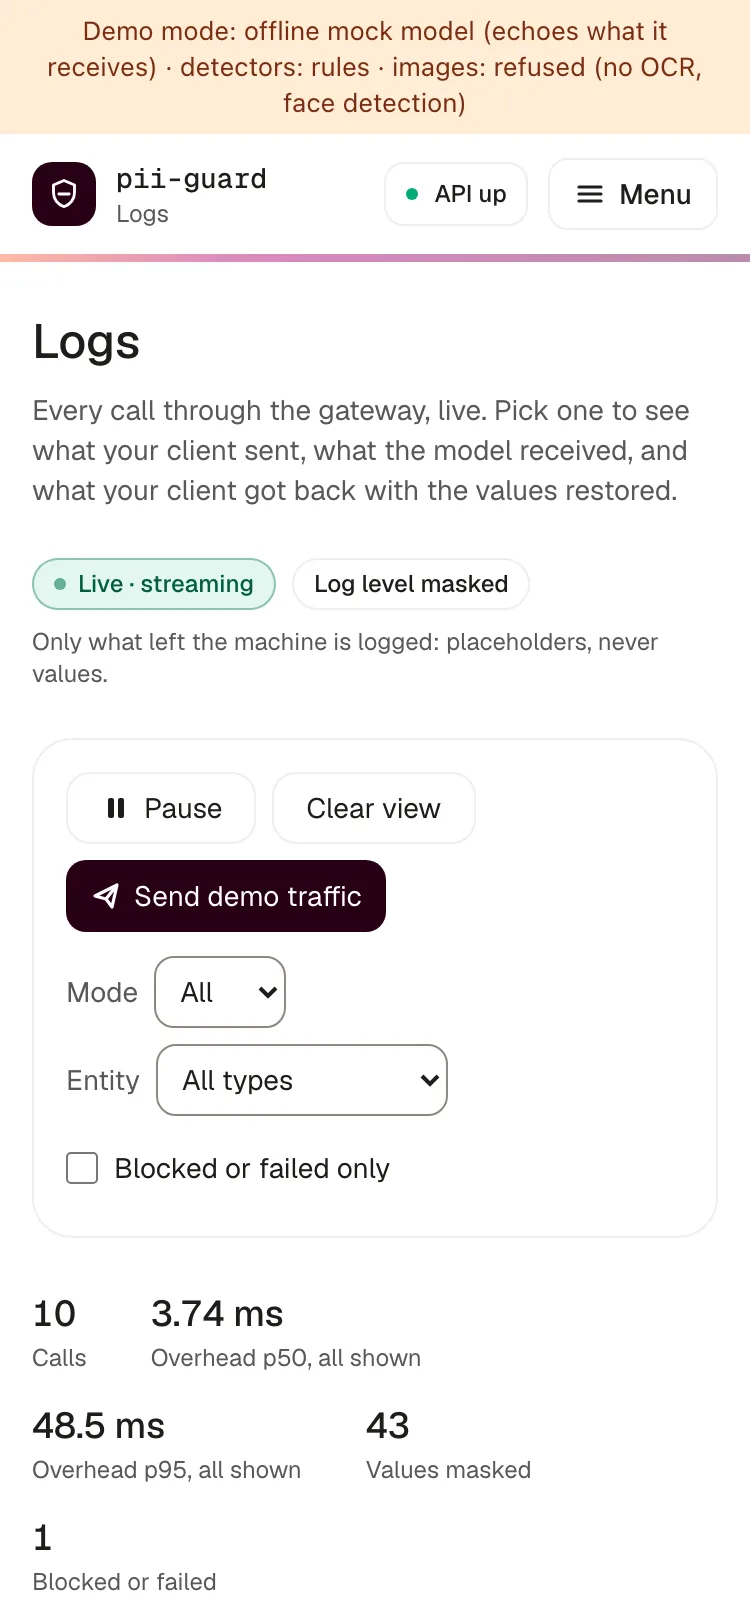
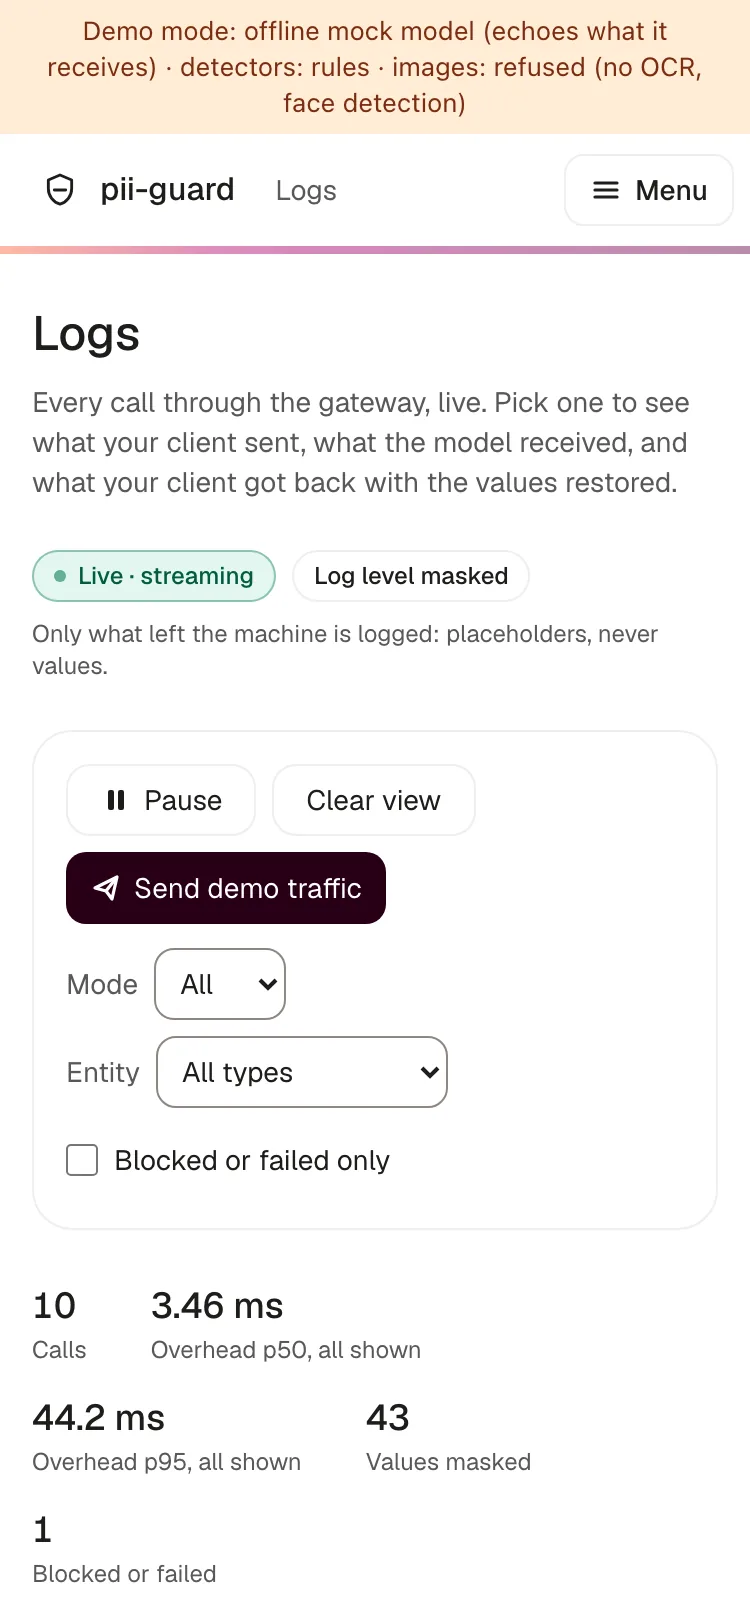
feat(ui): compact sidebar brand row, connection status in the footer (LAB-1325)
- Brand row: one 36px line in the nav gutter, a 20px shield glyph and
  pii-guard in Geist 16/500; the tagline moves to the page title.
- The API-up pill is gone: the footer shows a 6px dot and the version, with
  mode and detectors in the tooltip. Demo mode is labelled in orange; a down
  API (demo engine not chosen) is red, and so is the notice above the content.
- Engine select stays in the footer; the Images hint now points there.
- README screenshots re-captured.

diff --git a/ui/src/components/Sidebar.tsx b/ui/src/components/Sidebar.tsx
@@ -13,6 +13,8 @@ interface Props {
   onRecheck: () => void;
   theme: ThemePref;
   onTheme: (t: ThemePref) => void;
+  /** What the connected server runs, for the status tooltip ("fast mode · rules+ner"). */
+  statusDetail?: string | null;
 }
 
 /**
@@ -20,7 +22,7 @@ interface Props {
  * Sections are plain hash links, so they open in a new tab, can be copied, and keep working
  * with the back button.
  */
-export function Sidebar({ route, onSection, engineState, engine, onPreference, onRecheck, theme, onTheme }: Props) {
+export function Sidebar({ route, onSection, engineState, engine, onPreference, onRecheck, theme, onTheme, statusDetail }: Props) {
   const [open, setOpen] = useState(false);
   const menuId = useId();
   const menuButton = useRef<HTMLButtonElement>(null);
@@ -48,17 +50,14 @@ export function Sidebar({ route, onSection, engineState, engine, onPreference, o
         <a href="#main" className="sr-only focus:not-sr-only focus:absolute focus:left-4 focus:top-3 focus:z-40 focus:rounded focus:bg-surface focus:px-3 focus:py-1">
           Skip to content
         </a>
-        <div className="flex items-center gap-2.5 px-4 py-3 lg:flex-wrap lg:px-5 lg:pt-4 lg:pb-3">
-          <Logo />
-          <div className="min-w-0 leading-tight lg:grow lg:basis-0">
-            <p className="font-mono text-sm font-medium text-ink">pii-guard</p>
-            <p className="truncate text-xs text-muted lg:whitespace-normal">
-              <span className="lg:hidden">{current.label}</span>
-              <span className="hidden lg:inline">privacy firewall for AI agents</span>
-            </p>
-          </div>
+        {/* The brand row shares the nav items' gutter (px-2 + px-3), so the mark sits over their icons. */}
+        <div className="flex items-center gap-2 px-2 py-2.5 lg:pt-3 lg:pb-2">
+          <a href="#overview" className="flex h-9 min-w-0 items-center gap-2.5 rounded-sm px-3 text-ink">
+            <Logo />
+            <span className="text-base font-medium">pii-guard</span>
+          </a>
+          <span className="truncate text-sm text-muted lg:hidden">{current.label}</span>
           <span className="flex-1 lg:hidden" />
-          <EngineBadge state={engineState} engine={engine} onRecheck={onRecheck} className="lg:mt-1 lg:basis-full" />
           <button
             ref={menuButton}
             type="button"
@@ -118,8 +117,8 @@ export function Sidebar({ route, onSection, engineState, engine, onPreference, o
             ))}
           </nav>
 
-          <div className="border-t border-line px-4 py-3 lg:px-5">
-            <div className="flex flex-wrap items-center gap-2">
+          <div className="space-y-2.5 border-t border-line px-5 py-3">
+            <div className="flex items-center gap-2">
               <label className="text-xs text-muted" htmlFor="engine-mode">
                 Engine
               </label>
@@ -127,12 +126,15 @@ export function Sidebar({ route, onSection, engineState, engine, onPreference, o
                 id="engine-mode"
                 value={engineState.preference}
                 onChange={(e) => onPreference(e.target.value as ModePreference)}
-                className="h-8 min-w-28 flex-1 rounded-lg border border-field bg-surface px-2 text-xs font-medium text-ink"
+                className="h-8 min-w-0 flex-1 rounded-lg border border-field bg-surface px-2 text-xs text-ink"
               >
                 <option value="auto">Auto</option>
                 <option value="api">Live API</option>
                 <option value="mock">Demo engine</option>
               </select>
+            </div>
+            <div className="flex items-center justify-between gap-2">
+              <EngineStatus state={engineState} engine={engine} detail={statusDetail} onRecheck={onRecheck} />
               <ThemeToggle theme={theme} onTheme={onTheme} />
             </div>
           </div>
@@ -176,33 +178,38 @@ function SectionIcon({ id, active }: { id: Section; active: boolean }) {
   );
 }
 
-export function EngineBadge({ state, engine, onRecheck, className }: { state: EngineState; engine: EngineDisplay; onRecheck: () => void; className?: string }) {
+/**
+ * The connection, as a quiet footer line: a dot and the API version when all is well. The
+ * label grows only when something differs: the demo engine answers, or the API is down (red).
+ * A click checks again.
+ */
+export function EngineStatus({ state, engine, detail, onRecheck }: { state: EngineState; engine: EngineDisplay; detail?: string | null; onRecheck: () => void }) {
   const reason = engineReason(state);
   const status = state.status;
   const version = status.state === "online" ? `v${status.version}` : null;
-  // One indicator: what is answering right now, and the API's own state only when it differs.
-  const { label, detail, tone } =
+  // Down means nobody asked for the demo engine and the API does not answer: the one case
+  // worth attention, so it is red here and in the notice above the content.
+  const down = engine === "mock" && state.preference !== "mock" && status.state === "offline";
+  const { label, shown, sub, tone } =
     engine === "pending"
-      ? { label: "Connecting…", detail: null, tone: "pending" as const }
+      ? { label: "Connecting…", shown: true, sub: null, tone: "pending" as const }
       : engine === "mock"
-        ? { label: "Demo mode", detail: status.state === "online" ? `API ${version} up, not in use` : "API offline", tone: "demo" as const }
-        : { label: "API up", detail: version, tone: "live" as const };
-  const dot = tone === "live" ? "bg-guard-dot" : tone === "demo" ? "bg-warn" : "bg-faint motion-safe:animate-pulse";
+        ? { label: "Demo mode", shown: true, sub: status.state === "online" ? `API ${version} up, not in use` : "API offline", tone: down ? ("down" as const) : ("demo" as const) }
+        : { label: "API up", shown: false, sub: version, tone: "live" as const };
+  const dot = { live: "bg-guard-dot", demo: "bg-warn", down: "bg-danger", pending: "bg-faint motion-safe:animate-pulse" }[tone];
+  const tip = tone === "live" ? ["API connected", detail].filter(Boolean).join(" · ") : reason;
 
   return (
-    <div role="status" aria-label={`${label}. ${reason}.`} className={className}>
+    <div role="status" aria-label={`${label}. ${reason}.`} className="min-w-0">
       <button
         type="button"
         onClick={onRecheck}
-        title={`${reason}. Click to check again.`}
-        className={[
-          "inline-flex h-8 max-w-full items-center gap-2 rounded-lg border px-2.5 text-xs font-medium whitespace-nowrap transition-colors",
-          tone === "demo" ? "border-warn/40 bg-warn-soft text-warn" : "border-line text-ink hover:border-line-strong",
-        ].join(" ")}
+        title={`${tip}. Click to check again.`}
+        className="inline-flex h-7 max-w-full min-w-0 items-center gap-2 rounded-sm text-xs whitespace-nowrap text-muted transition-colors hover:text-ink"
       >
         <span aria-hidden="true" className={["size-1.5 shrink-0 rounded-full", dot].join(" ")} />
-        <span>{label}</span>
-        {detail && <span className="hidden truncate font-mono text-2xs font-normal text-muted tabular-nums lg:inline">{detail}</span>}
+        <span className={shown ? (tone === "down" ? "font-medium text-danger" : tone === "demo" ? "font-medium text-warn" : "") : "sr-only"}>{label}</span>
+        {sub && <span className="truncate tabular-nums">{sub}</span>}
       </button>
     </div>
   );
@@ -237,11 +244,9 @@ function ThemeToggle({ theme, onTheme }: { theme: ThemePref; onTheme: (t: ThemeP
 
 function Logo() {
   return (
-    <span className="grid size-8 shrink-0 place-items-center rounded-lg bg-primary text-on-primary">
-      <svg aria-hidden="true" viewBox="0 0 24 24" className="size-4.5" fill="none" stroke="currentColor" strokeWidth="1.9" strokeLinejoin="round">
-        <path d="M12 3 5 6v5.2c0 4.3 2.9 8 7 9.3 4.1-1.3 7-5 7-9.3V6l-7-3Z" />
-        <path d="M8.6 12h6.8" strokeLinecap="round" />
-      </svg>
-    </span>
+    <svg aria-hidden="true" viewBox="0 0 24 24" className="size-5 shrink-0 text-ink" fill="none" stroke="currentColor" strokeWidth="1.7" strokeLinejoin="round">
+      <path d="M12 3 5 6v5.2c0 4.3 2.9 8 7 9.3 4.1-1.3 7-5 7-9.3V6l-7-3Z" />
+      <path d="M8.6 12h6.8" strokeLinecap="round" />
+    </svg>
   );
 }

diff --git a/ui/src/App.tsx b/ui/src/App.tsx
@@ -4,6 +4,7 @@ import { engineReason } from "./api/engine";
 import { createHttpClient, type HttpGuardClient } from "./api/http";
 import { MOCK_SESSION_PREFIX, createMockClient } from "./api/mock";
 import type { GuardClient } from "./api/types";
+import type { ServerStatus } from "./api/status";
 import { Sidebar } from "./components/Sidebar";
 import { DEFAULT_SAMPLE, SAMPLES, sampleBehind, type Sample } from "./content/samples";
 import type { BenchmarkLoader } from "./api/benchmarks";
@@ -154,6 +155,8 @@ export function App({ api, mock, envMode = import.meta.env.VITE_PII_GUARD_MODE, 
   };
 
   const chatClient = engine.engine === "api" ? apiChat : mockChat;
+  // Nobody chose the demo engine and the API does not answer: the notice turns red.
+  const apiDown = engine.engine === "mock" && engine.state.preference !== "mock" && engine.state.status.state === "offline";
   const section = route.section;
   const tab = route.tab;
 
@@ -168,14 +171,15 @@ export function App({ api, mock, envMode = import.meta.env.VITE_PII_GUARD_MODE, 
         onRecheck={engine.recheck}
         theme={theme}
         onTheme={setTheme}
+        statusDetail={server ? statusDetailOf(server) : null}
       />
 
       <div className="min-w-0">
         <PageHeader route={route} />
         {engine.engine === "mock" && (
-          <div role="status" className="border-b border-warn/30 bg-warn-soft">
+          <div role="status" className={apiDown ? "border-b border-danger/30 bg-danger-soft" : "border-b border-warn/30 bg-warn-soft"}>
             <p className="mx-auto max-w-[1280px] px-4 py-2 text-xs text-ink sm:px-6 sm:text-sm">
-              <strong className="font-medium text-warn">Demo mode.</strong> {engineReason(engine.state)}.{" "}
+              {apiDown ? <strong className="font-medium text-danger">API not reachable.</strong> : <strong className="font-medium text-warn">Demo mode.</strong>} {engineReason(engine.state)}.{" "}
               {section === "playground" && tab === "images"
                 ? "Images replay regions recorded from a real SAM 3.1 run on the built-in samples; uploads need the API."
                 : section === "evaluation"
@@ -312,6 +316,12 @@ export function App({ api, mock, envMode = import.meta.env.VITE_PII_GUARD_MODE, 
       </div>
     </div>
   );
+}
+
+/** The status tooltip's detail: "fast mode · rules+ner". */
+function statusDetailOf(s: ServerStatus): string {
+  const mode = s.gateway.modes[s.gateway.default_mode as keyof ServerStatus["gateway"]["modes"]];
+  return [`${s.gateway.default_mode} mode`, mode?.detectors.join("+")].filter(Boolean).join(" · ");
 }
 
 /** The bar above every section: where you are, over the accent hairline. Below 1024 px the

diff --git a/ui/src/App.test.tsx b/ui/src/App.test.tsx
@@ -24,6 +24,9 @@ describe("App in demo mode", () => {
     expect(await screen.findByText("Demo mode", { selector: "span" })).toBeInTheDocument();
     expect(await screen.findByText(/API is not reachable, using the demo engine/)).toBeInTheDocument();
     expect(screen.getByText("API offline")).toBeInTheDocument();
+    // Nobody chose the demo engine, so the notice above the content escalates.
+    expect(screen.getByText("API not reachable.")).toBeInTheDocument();
+    expect(screen.queryByText("Demo mode.")).toBeNull();
   });
 
   it("masks a sample, then restores the simulated answer on the round-trip screen", async () => {
@@ -118,6 +121,10 @@ describe("App against a live API", () => {
     const user = userEvent.setup();
     render(<App api={liveApi()} mock={createMockClient()} />);
     expect(await screen.findByText("API up", { selector: "span" })).toBeInTheDocument();
+    // A quiet footer line: the version, with the state in the tooltip and for screen readers.
+    expect(screen.getByText("v0.1.0")).toBeInTheDocument();
+    expect(screen.getByRole("status", { name: /^API up\./ })).toBeInTheDocument();
+    expect(screen.queryByText("API not reachable.")).toBeNull();
     await user.click(screen.getByRole("button", { name: /mask document/i }));
     const note = await screen.findByTestId("scope-note");
     expect(note).toHaveTextContent(/\d+ values masked by /);

diff --git a/ui/src/screens/Images.tsx b/ui/src/screens/Images.tsx
@@ -621,7 +621,7 @@ function DemoUploadNotice({ switchEngine }: { switchEngine: boolean }) {
       <p className="mt-1 text-ink">Image masking runs on the pii-guard server, not in your browser. Your image was not sent anywhere.</p>
       <p className="mt-2 text-muted">
         {switchEngine ? (
-          <>The API is up: switch <strong className="font-medium text-ink">Engine</strong> in the header to <strong className="font-medium text-ink">Live API</strong>, then mask the image again.</>
+          <>The API is up: switch <strong className="font-medium text-ink">Engine</strong> in the sidebar to <strong className="font-medium text-ink">Live API</strong>, then mask the image again.</>
         ) : (
           <>
             Start it with <code className="rounded bg-surface px-1 font-mono text-xs">pii-guard up</code>, or try one of the samples, which replay a recorded run.

diff --git a/ui/src/screens/Images.test.tsx b/ui/src/screens/Images.test.tsx
@@ -88,7 +88,7 @@ describe("Images screen", () => {
     await user.upload(input, new File([new Uint8Array([0x89, 0x50])], "mine.png", { type: "image/png" }));
     expect(within(panel).getByText("Nothing has been sent yet")).toBeInTheDocument();
     await user.click(within(panel).getByRole("button", { name: "Mask image" }));
-    expect(await within(panel).findByRole("alert")).toHaveTextContent(/switch Engine in the header to Live API/);
+    expect(await within(panel).findByRole("alert")).toHaveTextContent(/switch Engine in the sidebar to Live API/);
   });
 
   it("says an undecodable image could not be decoded", async () => {

diff --git a/ui/index.html b/ui/index.html
@@ -6,7 +6,7 @@
     <meta name="description" content="pii-guard demo: what the model saw vs what you got back." />
     <meta name="color-scheme" content="light dark" />
     <link rel="icon" type="image/svg+xml" href="/favicon.svg" />
-    <title>pii-guard · demo</title>
+    <title>pii-guard · privacy firewall for AI agents</title>
     <script>
       // Apply the theme before first paint so dark mode doesn't flash.
       (function () {

diff --git a/ui/DESIGN.md b/ui/DESIGN.md
@@ -122,6 +122,15 @@ active nav item is marked by `aria-current`, its fill and a 500 weight, not by f
   14 px with a 16 px icon, ink coloured; the active one has the `--surface-2` fill and a 4 px
   radius. Groups (Inspect, Set up, Measure) keep the sections in their order; Overview stands
   alone at the top. Hints under each label show only in the phone menu.
+- **Brand row:** one 36 px line in the nav items' gutter, so the mark sits over their icons: a
+  20 px shield glyph (no tile) and "pii-guard" in Geist 16/500. No tagline in the sidebar; it
+  lives on the Overview and in the page title.
+- **Sidebar footer:** the Engine select, then the connection as a quiet line beside the theme
+  toggle: a 6 px dot and the API version in muted 12 px, with "API connected · fast mode ·
+  rules" in the tooltip (a click checks again). The label only appears when something differs:
+  "Demo mode" in orange when the demo engine answers, in red when the API is down and nobody
+  chose the demo engine. Only that case also turns the notice above the content red ("API not
+  reachable.").
 - **Page header:** a 48 px bar with the section (and Playground tab) over the accent hairline,
   from 1024 px. Below that width the menu's top bar names the section and the hairline sits
   under it.
